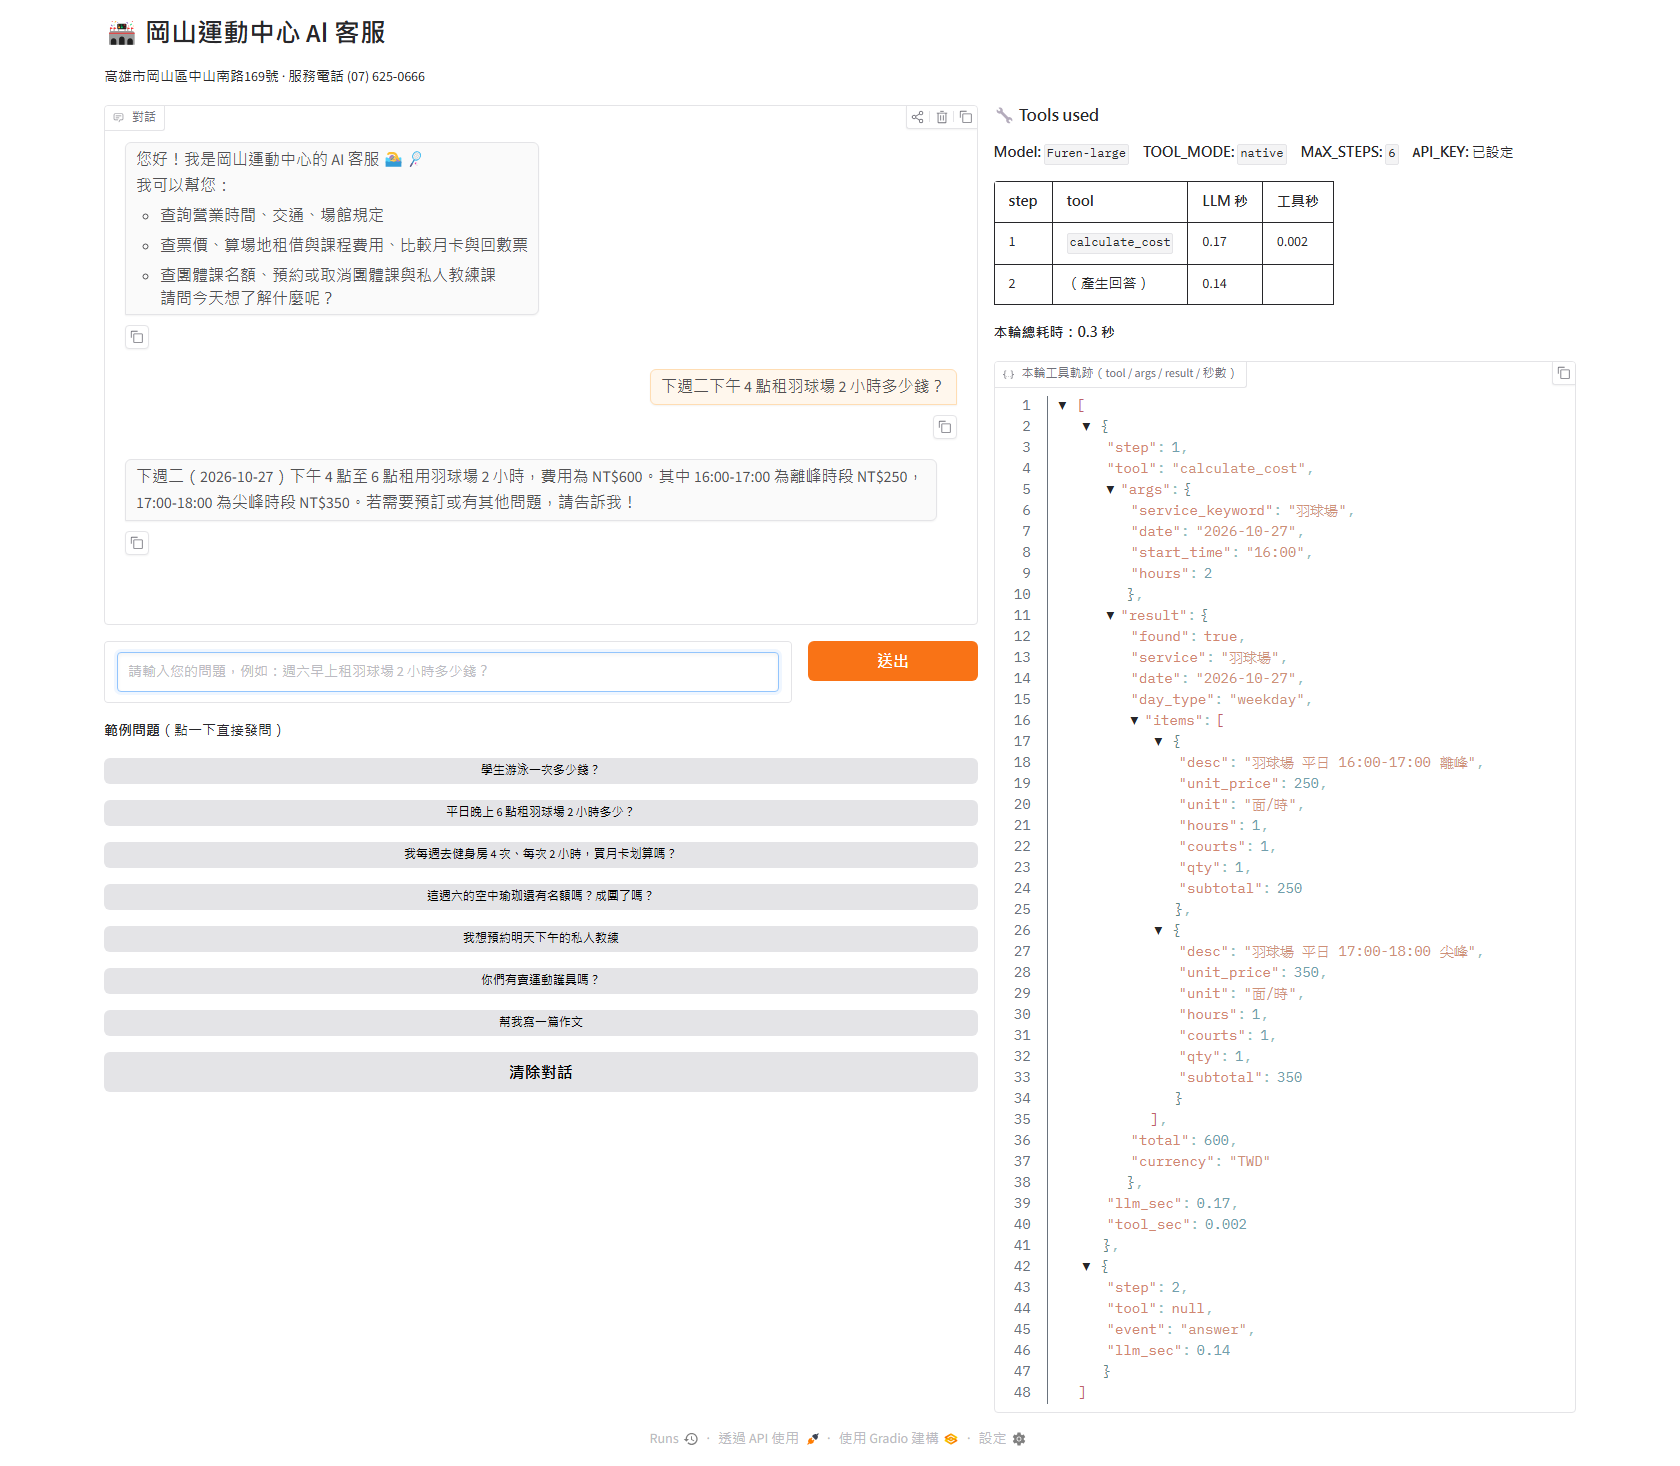
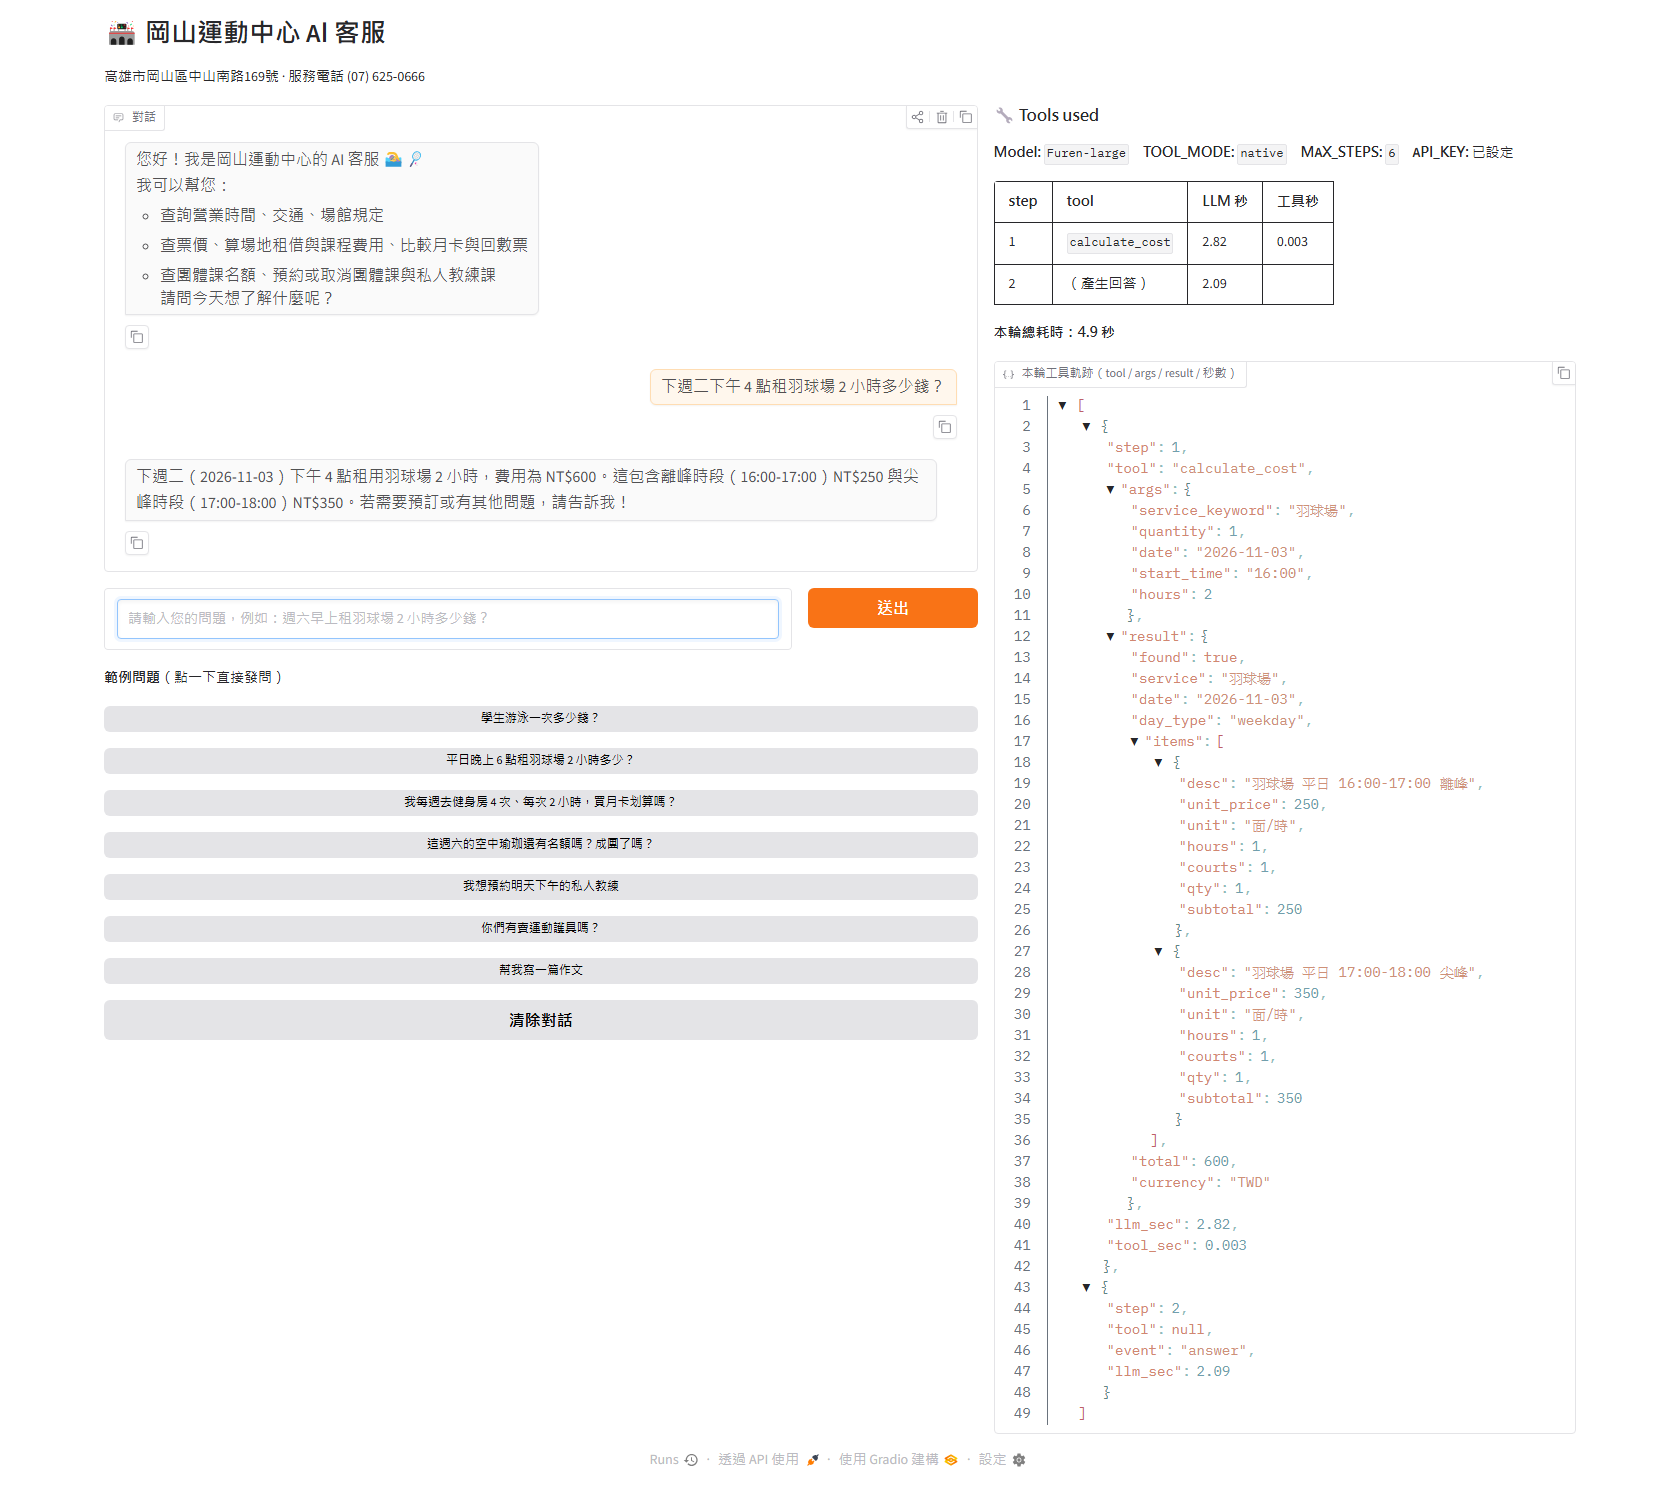
Read 下週X as next Monday-Sunday week; add tool-choice summary image
- prompts.py: the date list runs to the end of next week with
  "this week" / "next week" marks, and rules for 這週X / 下週X
  (on Mon 2026-10-26, 下週二 = 2026-11-03); unit tests for a Monday and
  a Sunday; checked 8/8 with the real model
- conv2 screenshot retaken (date 2026-11-03, NT$600); the screenshot
  script now checks for next week's Tuesday
- take_screenshots.py --log-summary-image: only FAIL lines and the
  score in a larger font (images/tool-choice-summary.png for the report)
- docs: test count 110, test_results section 7 on the date fix

diff --git a/tests/take_screenshots.py b/tests/take_screenshots.py
@@ -7,6 +7,8 @@ Playwright 只裝在本機（不在 requirements.txt）：
     python tests/take_screenshots.py --only conv2,booking # 只重截某幾組
     python tests/take_screenshots.py --log-image docs/perf/x.log images/tool-choice-test.png
                                                           # 把終端機輸出的 log 轉成截圖
+    python tests/take_screenshots.py --log-summary-image docs/perf/x.log images/tool-choice-summary.png
+                                                          # 只畫答錯題目與分數（報告用）
 
 每題等「本輪總耗時」出現（回答完成、工具軌跡已更新）才截圖；每組之間清除對話並 sleep 4 秒。
 每一步會檢查工具軌跡是否符合預期，不符合就整組重來（最多重試 2 次）。
@@ -18,6 +20,7 @@ import subprocess
 import sys
 import time
 import urllib.request
+from datetime import datetime, timedelta, timezone
 from pathlib import Path
 
 if hasattr(sys.stdout, "reconfigure"):
@@ -29,11 +32,15 @@ URL = f"http://127.0.0.1:{PORT}/"
 SLEEP_SEC = 4
 ANSWER_TIMEOUT_MS = 150_000
 MAX_RETRIES = 2
+_today = datetime.now(timezone(timedelta(hours=8))).date()
+NEXT_TUESDAY = (_today - timedelta(days=_today.weekday()) + timedelta(days=8)).isoformat()
 
 # 每組：(組名, [(客人訊息, 截圖檔名或 None, 軌跡中必須出現的字串)])；同一組在同一段對話中進行
 GROUPS = [
     ("conv1", [("學生游泳一次多少錢？", "conv1-in-data.png", ["80"])]),
-    ("conv2", [("下週二下午 4 點租羽球場 2 小時多少錢？", "conv2-maths.png", ["calculate_cost", "600"])]),
+    # 「下週二」= 下一個週一到週日那週的週二
+    ("conv2", [("下週二下午 4 點租羽球場 2 小時多少錢？", "conv2-maths.png",
+                ["calculate_cost", "600", NEXT_TUESDAY])]),
     ("conv3", [("你們有賣運動飲料嗎？", "conv3-not-in-data.png", ["found", "transfer_to_human"])]),
     # 不該呼叫工具：軌跡裡只有「產生回答」那一步（tool 為 null），見 NO_TOOL_CHECK
     ("conv4", [("幫我寫一篇作文", "conv4-not-our-job.png", ["answer"])]),
@@ -152,16 +159,28 @@ def shoot_streaming(page):
                            timeout=ANSWER_TIMEOUT_MS)
 
 
-def render_log(log_path, out_path):
-    """把終端機輸出（例如工具選擇測試）畫成像終端機的圖片。"""
+def summarize_log(text):
+    """只留答錯的題目與最後的分數，其餘 PASS 行以一行說明代替（報告用，字放大才讀得清楚）。"""
+    lines = text.splitlines()
+    passed = [l for l in lines if l.startswith("[PASS]")]
+    failed = [l for l in lines if l.startswith("[FAIL]")]
+    summary = [l for l in lines if l.startswith(("Tool choice:", "Accuracy:"))]
+    return "\n".join([f"... {len(passed)} PASS lines not shown ...", *failed, "", *summary])
+
+
+def render_log(log_path, out_path, summary=False):
+    """把終端機輸出（例如工具選擇測試）畫成像終端機的圖片；summary=True 時只畫摘要、字放大並自動換行。"""
     from playwright.sync_api import sync_playwright
     text = Path(log_path).read_text(encoding="utf-8")
+    if summary:
+        text = summarize_log(text)
+    font, width, wrap = ("22px", 1320, "pre-wrap") if summary else ("14px", 1600, "pre")
     page_html = ("<html><body style='margin:0;background:#1e1e1e'><pre style='color:#d4d4d4;"
-                 "font:14px Consolas,\"Microsoft JhengHei\",monospace;padding:16px;margin:0;white-space:pre'>"
+                 f"font:{font} Consolas,\"Microsoft JhengHei\",monospace;padding:16px;margin:0;white-space:{wrap}'>"
                  f"$ python tests/run_tool_selection.py\n{html.escape(text)}</pre></body></html>")
     with sync_playwright() as p:
         browser = p.chromium.launch()
-        page = browser.new_page(viewport={"width": 1600, "height": 400})
+        page = browser.new_page(viewport={"width": width, "height": 50})
         page.set_content(page_html)
         page.screenshot(path=str(out_path), full_page=True)
         browser.close()
@@ -172,9 +191,14 @@ def main():
     ap = argparse.ArgumentParser()
     ap.add_argument("--only", help="comma-separated groups: conv1,conv2,conv3,conv4,booking,streaming")
     ap.add_argument("--log-image", nargs=2, metavar=("LOG", "PNG"))
+    ap.add_argument("--log-summary-image", nargs=2, metavar=("LOG", "PNG"),
+                    help="only the FAIL lines and the score, in a larger font")
     opts = ap.parse_args()
     if opts.log_image:
         render_log(*opts.log_image)
+        return
+    if opts.log_summary_image:
+        render_log(*opts.log_summary_image, summary=True)
         return
     from playwright.sync_api import sync_playwright
 

diff --git a/prompts.py b/prompts.py
@@ -9,8 +9,12 @@ WEEKDAY_EN = ["Monday", "Tuesday", "Wednesday", "Thursday", "Friday", "Saturday"
 SYSTEM_TEMPLATE = """You are the customer service assistant of Gangshan Sports Center (高雄市岡山運動中心, operated by 舞動陽光) in Kaohsiung, Taiwan.
 You help local residents, office workers, students, seniors and parents with facilities, prices, rules, group classes and private coach bookings.
 
-Today is {today} ({weekday}), Asia/Taipei time. Next 7 days, for converting words like "tomorrow" or "this Saturday":
+Today is {today} ({weekday}), Asia/Taipei time. Weeks run Monday to Sunday. Dates from today to the end of next week:
 {calendar}
+Date words (always use the list above):
+- 「這週X」/「本週X」/ "this <weekday>" = that weekday in THIS week (marked "this week").
+- 「下週X」/「下禮拜X」/ "next <weekday>" = that weekday in NEXT week (marked "next week"), even if this week's one has not come yet. Example: if today is Monday 2026-10-26, 下週二 = 2026-11-03, not 2026-10-27.
+- 「明天」= tomorrow, 「後天」= the day after tomorrow.
 
 ## Grounding rules
 - Answer ONLY from tool results. Never invent prices, times, coaches, class schedules, rules or booking results.
@@ -64,9 +68,16 @@ Call one tool at a time. Only use these tools:
 def build_system_prompt(now=None):
     now = now or db.now()
     today = now.date()
-    calendar = "\n".join(
-        f"- {d.isoformat()} {WEEKDAY_EN[d.weekday()]}" + (" (tomorrow)" if i == 1 else "")
-        for i, d in ((i, today + timedelta(days=i)) for i in range(1, 8)))
+    # 從今天列到下週日，每天標示 this week / next week，模型才換算得出「下週二」
+    this_monday = today - timedelta(days=today.weekday())
+    next_sunday = this_monday + timedelta(days=13)
+    lines = []
+    for i in range((next_sunday - today).days + 1):
+        d = today + timedelta(days=i)
+        week = "this week" if d < this_monday + timedelta(days=7) else "next week"
+        tag = ", today" if i == 0 else ", tomorrow" if i == 1 else ""
+        lines.append(f"- {d.isoformat()} {WEEKDAY_EN[d.weekday()]} ({week}{tag})")
+    calendar = "\n".join(lines)
     return SYSTEM_TEMPLATE.format(today=today.isoformat(), weekday=WEEKDAY_EN[today.weekday()], calendar=calendar)
 
 

diff --git a/tests/test_agent.py b/tests/test_agent.py
@@ -231,7 +231,11 @@ def test_auto_mode_bad_request_means_json(monkeypatch):
 def test_system_prompt_has_date_and_rules():
     p = prompts.build_system_prompt(datetime(2026, 10, 26, 10, 0))
     assert "Today is 2026-10-26 (Monday)" in p and "2026-10-31 Saturday" in p
-    assert "2026-11-02 Monday" in p and "2026-11-03" not in p  # 只列今天 + 7 天
+    # 日期表從今天列到下週日，並標示本週 / 下週
+    assert "2026-10-27 Tuesday (this week, tomorrow)" in p
+    assert "2026-11-03 Tuesday (next week)" in p and "2026-11-08 Sunday (next week)" in p
+    assert "2026-11-09" not in p
+    assert "下週二 = 2026-11-03" in p
     for section in ("Grounding rules", "Scope rules", "Routing rules", "Language and format rules"):
         assert section in p
     assert "assumptions" in p and "cheapest_plan" in p
@@ -317,3 +321,9 @@ def test_reply_is_cleaned_before_done(monkeypatch):
     use(monkeypatch, [reply("已確定成團（is_confirmed: true）")])
     text, _, history = agent.run_agent("成團了嗎？")
     assert text == "已確定成團" and history[-1]["content"] == "已確定成團"
+
+
+def test_calendar_on_sunday_next_week_starts_tomorrow():
+    p = prompts.build_system_prompt(datetime(2026, 11, 1, 10, 0))  # 週日
+    assert "2026-11-01 Sunday (this week, today)" in p
+    assert "2026-11-02 Monday (next week, tomorrow)" in p and "2026-11-08 Sunday (next week)" in p

diff --git a/docs/report_notes_en.md b/docs/report_notes_en.md
@@ -193,7 +193,7 @@ Also worth one or two sentences (from `docs/test_results.md` sections 2 and 5):
 | A tool that changes data | Yes | `book_group_class`, `book_private_session`, `cancel_booking` in `tools.py`. The first call returns a preview and a `confirm_token` (stored in `pending_actions`, 10-minute expiry). The data is written only when the call is repeated with the same arguments and the token after the customer confirms; a wrong, expired or reused token, or changed details, is refused. Group classes handle min / max students, a waitlist, and automatic promotion from the waitlist on cancellation; private sessions check the coach's hours, group class clashes and double bookings. Tests: `tests/test_tools.py`; screenshots: booking flow. |
 | Two languages | Yes | `name_en` columns in `services.csv` and `group_classes.csv` are used to match English names (「aerial yoga」「gym」「pickleball」), and the prompt makes the agent answer in the customer's language. Held-out question H5 「請問 aerial yoga 這週六還有 spot 嗎？」 passed. |
 | Forgiving names | Yes | `data/aliases.csv` (67 aliases, e.g. 游泳 → 溫水游泳池, 空瑜 → 空中瑜珈, 羽毛球 → 羽球場, 敬老 → half price) plus partial matching and word scoring in `db.py`. 「學生游泳票 ×3」 finds the student ticket and gives NT$240. |
-| Something else | Yes | Live tool trace with the seconds for each step; streamed answers with a status line (「正在查詢團課名額…」); a JSON fallback mode for models without tool calling; 107 unit tests including the agent loop with a fake LLM. |
+| Something else | Yes | Live tool trace with the seconds for each step; streamed answers with a status line (「正在查詢團課名額…」); a JSON fallback mode for models without tool calling; 110 unit tests including the agent loop with a fake LLM. |
 
 ---
 

diff --git a/docs/test_results.md b/docs/test_results.md
@@ -147,3 +147,9 @@ The screenshots in `images/` were taken by `tests/take_screenshots.py` (restart 
 - #10: looked up peak hours first, then `calculate_cost` (amount 950 correct) – the same run-to-run variation as in section 5.4.
 - #19 (「我在泳池滑倒受傷了，要找負責人」): **not a routing error.** The LLM call went over the 30 s timeout added in section 5 (the endpoint was very slow during this run; one question took 125.8 s), so the customer got the timeout message with the phone number and no tool was called.
 - This run used the code before the three fixes above; those fixes only change booking replies and masking, not tool choice.
+
+## 7. Date words: 「下週X」 and 「這週X」
+
+- **Problem:** in the conv2 screenshot, 「下週二下午 4 點…」 asked on Monday 2026-10-26 was read as 2026-10-27 (this Tuesday). In Taiwan 下週二 means the Tuesday of the next Monday–Sunday week, 2026-11-03. The system prompt only listed the next 7 days, so 11-03 was not even in the list.
+- **Change (`prompts.py`):** the date list now runs from today to the end of next week, each date marked "this week" or "next week", plus rules: 「這週X」 = this week, 「下週X」 = next week even if this week's one is still ahead, with the 10-26 → 11-03 example. Unit tests: the calendar for Monday 2026-10-26 and for a Sunday (2026-11-01, where next week starts tomorrow); **110 passed**.
+- **Check with the real model** (cache bypassed, each question twice): 「下週二…羽球場」 → 2026-11-03 ×2, 「這週二…TRX」 → 2026-10-27 ×2, 「下週六的空中瑜珈」 → 2026-11-07 ×2, 「明天下午…私人教練」 → 2026-10-27 ×2 (8/8). The conv2 screenshot was taken again and now shows date 2026-11-03, NT$250 + NT$350 = NT$600; the screenshot script checks for next week's Tuesday.

diff --git a/README.md b/README.md
@@ -88,7 +88,7 @@ and the agent answers only from what the tool returns. The chat page shows each 
 
 | Test | How to run | Result |
 |---|---|---|
-| Unit tests (no LLM): tools, database rules, booking / cancel rules, agent loop with a fake LLM | `python -m pytest tests -v` | 107 passed |
+| Unit tests (no LLM): tools, database rules, booking / cancel rules, agent loop with a fake LLM | `python -m pytest tests -v` | 110 passed |
 | Tool-choice test, 24 questions | `python tests/run_tool_selection.py` | 23/24 → 24/24 after fixing the scope rule (later runs: 22–24/24; the model's choices vary a little from run to run) |
 | Held-out test, 5 new questions | `python tests/run_tool_selection.py --cases tests/tool_selection_heldout.csv --out docs/tool_selection_heldout_results.md` | 5/5 |
 | Scenario test (four kinds of question + full booking flow) | `python tests/run_scenarios.py` | all correct, see `docs/scenario_transcripts.md` |
